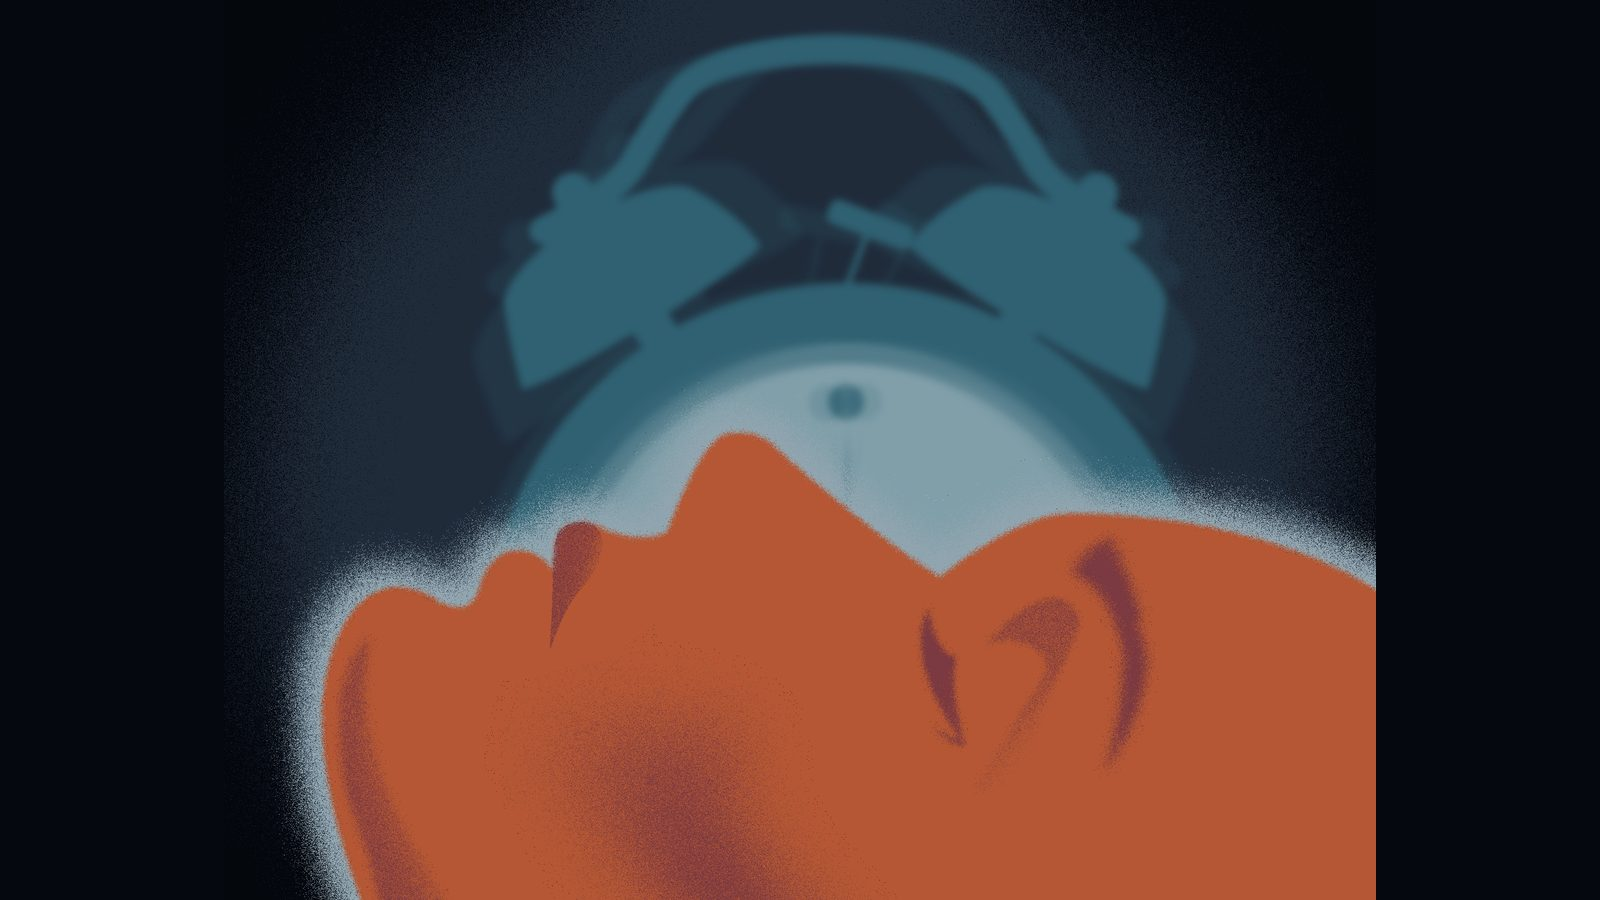
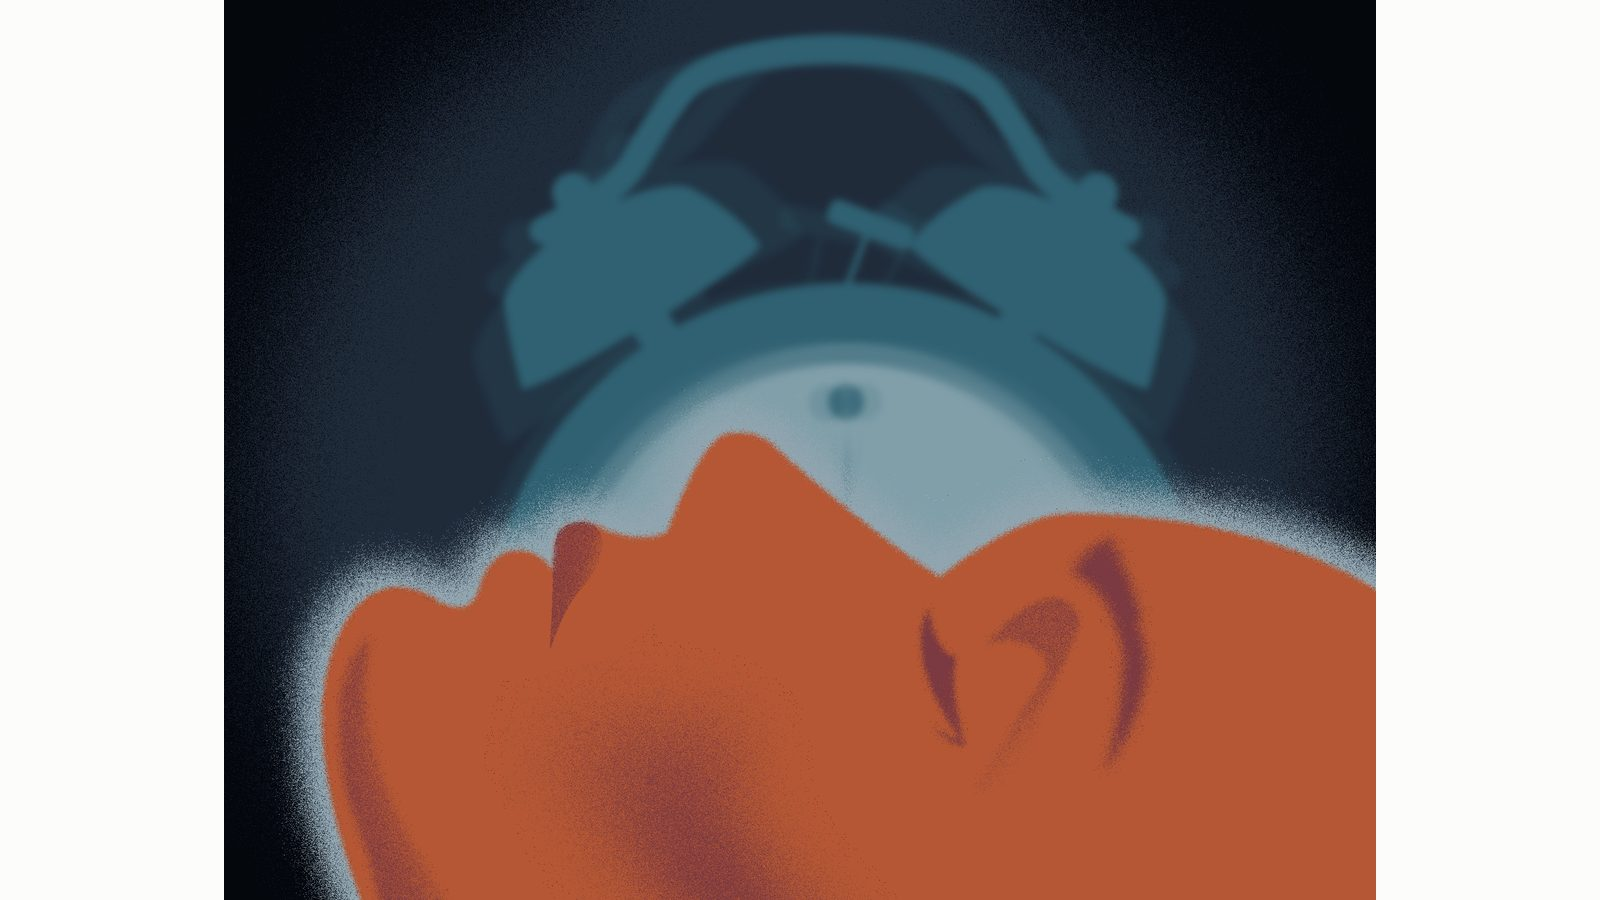
Illustrations on white edges (both slideshows); site buttons back to grey; keep portfolio drafts and portrait originals out of git

Changed region(s): [[0.8438, 0.0, 1.0, 1.0], [0.0, 0.0, 0.1562, 1.0]]

diff --git a/assets/images/slideshow-illustrations.html b/assets/images/slideshow-illustrations.html
@@ -200,7 +200,7 @@
   var root = document.querySelector("#slideshow-embed");
   if (!root) return;
   var $ = function (sel) { return root.querySelector(sel); };
-  var CONFIG = {"panelColor":"black","cover":null,"slides":[{"desktop":"illustrations/ill-01.jpg","mobile":null,"heading":"","caption":"","cropDesktop":{"scale":1,"x":0.5,"y":0.5},"cropMobile":{"scale":1,"x":0.5,"y":0.5}},{"desktop":"illustrations/ill-02.jpg","mobile":null,"heading":"","caption":"","cropDesktop":{"scale":1,"x":0.5,"y":0.5},"cropMobile":{"scale":1,"x":0.5,"y":0.5}},{"desktop":"illustrations/ill-03.jpg","mobile":null,"heading":"","caption":"","cropDesktop":{"scale":1,"x":0.5,"y":0.5},"cropMobile":{"scale":1,"x":0.5,"y":0.5}},{"desktop":"illustrations/ill-04.jpg","mobile":null,"heading":"","caption":"","cropDesktop":{"scale":1,"x":0.5,"y":0.5},"cropMobile":{"scale":1,"x":0.5,"y":0.5}},{"desktop":"illustrations/ill-05.jpg","mobile":null,"heading":"","caption":"","cropDesktop":{"scale":1,"x":0.5,"y":0.5},"cropMobile":{"scale":1,"x":0.5,"y":0.5}},{"desktop":"illustrations/ill-06.jpg","mobile":null,"heading":"","caption":"","cropDesktop":{"scale":1,"x":0.5,"y":0.5},"cropMobile":{"scale":1,"x":0.5,"y":0.5}},{"desktop":"illustrations/ill-07.jpg","mobile":null,"heading":"","caption":"","cropDesktop":{"scale":1,"x":0.5,"y":0.5},"cropMobile":{"scale":1,"x":0.5,"y":0.5}},{"desktop":"illustrations/ill-08.jpg","mobile":null,"heading":"","caption":"","cropDesktop":{"scale":1,"x":0.5,"y":0.5},"cropMobile":{"scale":1,"x":0.5,"y":0.5}},{"desktop":"illustrations/ill-09.jpg","mobile":null,"heading":"","caption":"","cropDesktop":{"scale":1,"x":0.5,"y":0.5},"cropMobile":{"scale":1,"x":0.5,"y":0.5}},{"desktop":"illustrations/ill-10.jpg","mobile":null,"heading":"","caption":"","cropDesktop":{"scale":1,"x":0.5,"y":0.5},"cropMobile":{"scale":1,"x":0.5,"y":0.5}},{"desktop":"illustrations/ill-11.jpg","mobile":null,"heading":"","caption":"","cropDesktop":{"scale":1,"x":0.5,"y":0.5},"cropMobile":{"scale":1,"x":0.5,"y":0.5}},{"desktop":"illustrations/ill-12.jpg","mobile":null,"heading":"","caption":"","cropDesktop":{"scale":1,"x":0.5,"y":0.5},"cropMobile":{"scale":1,"x":0.5,"y":0.5}},{"desktop":"illustrations/ill-13.jpg","mobile":null,"heading":"","caption":"","cropDesktop":{"scale":1,"x":0.5,"y":0.5},"cropMobile":{"scale":1,"x":0.5,"y":0.5}},{"desktop":"illustrations/ill-14.jpg","mobile":null,"heading":"","caption":"","cropDesktop":{"scale":1,"x":0.5,"y":0.5},"cropMobile":{"scale":1,"x":0.5,"y":0.5}},{"desktop":"illustrations/ill-15.jpg","mobile":null,"heading":"","caption":"","cropDesktop":{"scale":1,"x":0.5,"y":0.5},"cropMobile":{"scale":1,"x":0.5,"y":0.5}},{"desktop":"illustrations/ill-16.jpg","mobile":null,"heading":"","caption":"","cropDesktop":{"scale":1,"x":0.5,"y":0.5},"cropMobile":{"scale":1,"x":0.5,"y":0.5}},{"desktop":"illustrations/ill-17.jpg","mobile":null,"heading":"","caption":"","cropDesktop":{"scale":1,"x":0.5,"y":0.5},"cropMobile":{"scale":1,"x":0.5,"y":0.5}},{"desktop":"illustrations/ill-18.jpg","mobile":null,"heading":"","caption":"","cropDesktop":{"scale":1,"x":0.5,"y":0.5},"cropMobile":{"scale":1,"x":0.5,"y":0.5}},{"desktop":"illustrations/ill-19.jpg","mobile":null,"heading":"","caption":"","cropDesktop":{"scale":1,"x":0.5,"y":0.5},"cropMobile":{"scale":1,"x":0.5,"y":0.5}},{"desktop":"illustrations/ill-20.jpg","mobile":null,"heading":"","caption":"","cropDesktop":{"scale":1,"x":0.5,"y":0.5},"cropMobile":{"scale":1,"x":0.5,"y":0.5}},{"desktop":"illustrations/ill-21.jpg","mobile":null,"heading":"","caption":"","cropDesktop":{"scale":1,"x":0.5,"y":0.5},"cropMobile":{"scale":1,"x":0.5,"y":0.5}},{"desktop":"illustrations/ill-22.jpg","mobile":null,"heading":"","caption":"","cropDesktop":{"scale":1,"x":0.5,"y":0.5},"cropMobile":{"scale":1,"x":0.5,"y":0.5}},{"desktop":"illustrations/ill-23.jpg","mobile":null,"heading":"","caption":"","cropDesktop":{"scale":1,"x":0.5,"y":0.5},"cropMobile":{"scale":1,"x":0.5,"y":0.5}},{"desktop":"illustrations/ill-24.jpg","mobile":null,"heading":"","caption":"","cropDesktop":{"scale":1,"x":0.5,"y":0.5},"cropMobile":{"scale":1,"x":0.5,"y":0.5}},{"desktop":"illustrations/ill-25.jpg","mobile":null,"heading":"","caption":"","cropDesktop":{"scale":1,"x":0.5,"y":0.5},"cropMobile":{"scale":1,"x":0.5,"y":0.5}},{"desktop":"illustrations/ill-26.jpg","mobile":null,"heading":"","caption":"","cropDesktop":{"scale":1,"x":0.5,"y":0.5},"cropMobile":{"scale":1,"x":0.5,"y":0.5}},{"desktop":"illustrations/ill-27.jpg","mobile":null,"heading":"","caption":"","cropDesktop":{"scale":1,"x":0.5,"y":0.5},"cropMobile":{"scale":1,"x":0.5,"y":0.5}},{"desktop":"illustrations/ill-28.jpg","mobile":null,"heading":"","caption":"","cropDesktop":{"scale":1,"x":0.5,"y":0.5},"cropMobile":{"scale":1,"x":0.5,"y":0.5}},{"desktop":"illustrations/ill-29.jpg","mobile":null,"heading":"","caption":"","cropDesktop":{"scale":1,"x":0.5,"y":0.5},"cropMobile":{"scale":1,"x":0.5,"y":0.5}},{"desktop":"illustrations/ill-30.jpg","mobile":null,"heading":"","caption":"","cropDesktop":{"scale":1,"x":0.5,"y":0.5},"cropMobile":{"scale":1,"x":0.5,"y":0.5}},{"desktop":"illustrations/ill-31.jpg","mobile":null,"heading":"","caption":"","cropDesktop":{"scale":1,"x":0.5,"y":0.5},"cropMobile":{"scale":1,"x":0.5,"y":0.5}},{"desktop":"illustrations/ill-32.jpg","mobile":null,"heading":"","caption":"","cropDesktop":{"scale":1,"x":0.5,"y":0.5},"cropMobile":{"scale":1,"x":0.5,"y":0.5}},{"desktop":"illustrations/ill-33.jpg","mobile":null,"heading":"","caption":"","cropDesktop":{"scale":1,"x":0.5,"y":0.5},"cropMobile":{"scale":1,"x":0.5,"y":0.5}},{"desktop":"illustrations/ill-34.jpg","mobile":null,"heading":"","caption":"","cropDesktop":{"scale":1,"x":0.5,"y":0.5},"cropMobile":{"scale":1,"x":0.5,"y":0.5}},{"desktop":"illustrations/ill-35.jpg","mobile":null,"heading":"","caption":"","cropDesktop":{"scale":1,"x":0.5,"y":0.5},"cropMobile":{"scale":1,"x":0.5,"y":0.5}},{"desktop":"illustrations/ill-36.jpg","mobile":null,"heading":"","caption":"","cropDesktop":{"scale":1,"x":0.5,"y":0.5},"cropMobile":{"scale":1,"x":0.5,"y":0.5}},{"desktop":"illustrations/ill-37.jpg","mobile":null,"heading":"","caption":"","cropDesktop":{"scale":1,"x":0.5,"y":0.5},"cropMobile":{"scale":1,"x":0.5,"y":0.5}}]};
+  var CONFIG = {"panelColor":"black","cover":null,"slides":[{"desktop":"illustrations/ill-01.jpg?v=2","mobile":null,"heading":"","caption":"","cropDesktop":{"scale":1,"x":0.5,"y":0.5},"cropMobile":{"scale":1,"x":0.5,"y":0.5}},{"desktop":"illustrations/ill-02.jpg?v=2","mobile":null,"heading":"","caption":"","cropDesktop":{"scale":1,"x":0.5,"y":0.5},"cropMobile":{"scale":1,"x":0.5,"y":0.5}},{"desktop":"illustrations/ill-03.jpg?v=2","mobile":null,"heading":"","caption":"","cropDesktop":{"scale":1,"x":0.5,"y":0.5},"cropMobile":{"scale":1,"x":0.5,"y":0.5}},{"desktop":"illustrations/ill-04.jpg?v=2","mobile":null,"heading":"","caption":"","cropDesktop":{"scale":1,"x":0.5,"y":0.5},"cropMobile":{"scale":1,"x":0.5,"y":0.5}},{"desktop":"illustrations/ill-05.jpg?v=2","mobile":null,"heading":"","caption":"","cropDesktop":{"scale":1,"x":0.5,"y":0.5},"cropMobile":{"scale":1,"x":0.5,"y":0.5}},{"desktop":"illustrations/ill-06.jpg?v=2","mobile":null,"heading":"","caption":"","cropDesktop":{"scale":1,"x":0.5,"y":0.5},"cropMobile":{"scale":1,"x":0.5,"y":0.5}},{"desktop":"illustrations/ill-07.jpg?v=2","mobile":null,"heading":"","caption":"","cropDesktop":{"scale":1,"x":0.5,"y":0.5},"cropMobile":{"scale":1,"x":0.5,"y":0.5}},{"desktop":"illustrations/ill-08.jpg?v=2","mobile":null,"heading":"","caption":"","cropDesktop":{"scale":1,"x":0.5,"y":0.5},"cropMobile":{"scale":1,"x":0.5,"y":0.5}},{"desktop":"illustrations/ill-09.jpg?v=2","mobile":null,"heading":"","caption":"","cropDesktop":{"scale":1,"x":0.5,"y":0.5},"cropMobile":{"scale":1,"x":0.5,"y":0.5}},{"desktop":"illustrations/ill-10.jpg?v=2","mobile":null,"heading":"","caption":"","cropDesktop":{"scale":1,"x":0.5,"y":0.5},"cropMobile":{"scale":1,"x":0.5,"y":0.5}},{"desktop":"illustrations/ill-11.jpg?v=2","mobile":null,"heading":"","caption":"","cropDesktop":{"scale":1,"x":0.5,"y":0.5},"cropMobile":{"scale":1,"x":0.5,"y":0.5}},{"desktop":"illustrations/ill-12.jpg?v=2","mobile":null,"heading":"","caption":"","cropDesktop":{"scale":1,"x":0.5,"y":0.5},"cropMobile":{"scale":1,"x":0.5,"y":0.5}},{"desktop":"illustrations/ill-13.jpg?v=2","mobile":null,"heading":"","caption":"","cropDesktop":{"scale":1,"x":0.5,"y":0.5},"cropMobile":{"scale":1,"x":0.5,"y":0.5}},{"desktop":"illustrations/ill-14.jpg?v=2","mobile":null,"heading":"","caption":"","cropDesktop":{"scale":1,"x":0.5,"y":0.5},"cropMobile":{"scale":1,"x":0.5,"y":0.5}},{"desktop":"illustrations/ill-15.jpg?v=2","mobile":null,"heading":"","caption":"","cropDesktop":{"scale":1,"x":0.5,"y":0.5},"cropMobile":{"scale":1,"x":0.5,"y":0.5}},{"desktop":"illustrations/ill-16.jpg?v=2","mobile":null,"heading":"","caption":"","cropDesktop":{"scale":1,"x":0.5,"y":0.5},"cropMobile":{"scale":1,"x":0.5,"y":0.5}},{"desktop":"illustrations/ill-17.jpg?v=2","mobile":null,"heading":"","caption":"","cropDesktop":{"scale":1,"x":0.5,"y":0.5},"cropMobile":{"scale":1,"x":0.5,"y":0.5}},{"desktop":"illustrations/ill-18.jpg?v=2","mobile":null,"heading":"","caption":"","cropDesktop":{"scale":1,"x":0.5,"y":0.5},"cropMobile":{"scale":1,"x":0.5,"y":0.5}},{"desktop":"illustrations/ill-19.jpg?v=2","mobile":null,"heading":"","caption":"","cropDesktop":{"scale":1,"x":0.5,"y":0.5},"cropMobile":{"scale":1,"x":0.5,"y":0.5}},{"desktop":"illustrations/ill-20.jpg?v=2","mobile":null,"heading":"","caption":"","cropDesktop":{"scale":1,"x":0.5,"y":0.5},"cropMobile":{"scale":1,"x":0.5,"y":0.5}},{"desktop":"illustrations/ill-21.jpg?v=2","mobile":null,"heading":"","caption":"","cropDesktop":{"scale":1,"x":0.5,"y":0.5},"cropMobile":{"scale":1,"x":0.5,"y":0.5}},{"desktop":"illustrations/ill-22.jpg?v=2","mobile":null,"heading":"","caption":"","cropDesktop":{"scale":1,"x":0.5,"y":0.5},"cropMobile":{"scale":1,"x":0.5,"y":0.5}},{"desktop":"illustrations/ill-23.jpg?v=2","mobile":null,"heading":"","caption":"","cropDesktop":{"scale":1,"x":0.5,"y":0.5},"cropMobile":{"scale":1,"x":0.5,"y":0.5}},{"desktop":"illustrations/ill-24.jpg?v=2","mobile":null,"heading":"","caption":"","cropDesktop":{"scale":1,"x":0.5,"y":0.5},"cropMobile":{"scale":1,"x":0.5,"y":0.5}},{"desktop":"illustrations/ill-25.jpg?v=2","mobile":null,"heading":"","caption":"","cropDesktop":{"scale":1,"x":0.5,"y":0.5},"cropMobile":{"scale":1,"x":0.5,"y":0.5}},{"desktop":"illustrations/ill-26.jpg?v=2","mobile":null,"heading":"","caption":"","cropDesktop":{"scale":1,"x":0.5,"y":0.5},"cropMobile":{"scale":1,"x":0.5,"y":0.5}},{"desktop":"illustrations/ill-27.jpg?v=2","mobile":null,"heading":"","caption":"","cropDesktop":{"scale":1,"x":0.5,"y":0.5},"cropMobile":{"scale":1,"x":0.5,"y":0.5}},{"desktop":"illustrations/ill-28.jpg?v=2","mobile":null,"heading":"","caption":"","cropDesktop":{"scale":1,"x":0.5,"y":0.5},"cropMobile":{"scale":1,"x":0.5,"y":0.5}},{"desktop":"illustrations/ill-29.jpg?v=2","mobile":null,"heading":"","caption":"","cropDesktop":{"scale":1,"x":0.5,"y":0.5},"cropMobile":{"scale":1,"x":0.5,"y":0.5}},{"desktop":"illustrations/ill-30.jpg?v=2","mobile":null,"heading":"","caption":"","cropDesktop":{"scale":1,"x":0.5,"y":0.5},"cropMobile":{"scale":1,"x":0.5,"y":0.5}},{"desktop":"illustrations/ill-31.jpg?v=2","mobile":null,"heading":"","caption":"","cropDesktop":{"scale":1,"x":0.5,"y":0.5},"cropMobile":{"scale":1,"x":0.5,"y":0.5}},{"desktop":"illustrations/ill-32.jpg?v=2","mobile":null,"heading":"","caption":"","cropDesktop":{"scale":1,"x":0.5,"y":0.5},"cropMobile":{"scale":1,"x":0.5,"y":0.5}},{"desktop":"illustrations/ill-33.jpg?v=2","mobile":null,"heading":"","caption":"","cropDesktop":{"scale":1,"x":0.5,"y":0.5},"cropMobile":{"scale":1,"x":0.5,"y":0.5}},{"desktop":"illustrations/ill-34.jpg?v=2","mobile":null,"heading":"","caption":"","cropDesktop":{"scale":1,"x":0.5,"y":0.5},"cropMobile":{"scale":1,"x":0.5,"y":0.5}},{"desktop":"illustrations/ill-35.jpg?v=2","mobile":null,"heading":"","caption":"","cropDesktop":{"scale":1,"x":0.5,"y":0.5},"cropMobile":{"scale":1,"x":0.5,"y":0.5}},{"desktop":"illustrations/ill-36.jpg?v=2","mobile":null,"heading":"","caption":"","cropDesktop":{"scale":1,"x":0.5,"y":0.5},"cropMobile":{"scale":1,"x":0.5,"y":0.5}},{"desktop":"illustrations/ill-37.jpg?v=2","mobile":null,"heading":"","caption":"","cropDesktop":{"scale":1,"x":0.5,"y":0.5},"cropMobile":{"scale":1,"x":0.5,"y":0.5}}]};
   var IS_PREVIEW = false;
   var frame        = $(".ss-frame");
   var stage        = $(".ss-stage");

diff --git a/index.html b/index.html
@@ -7,7 +7,7 @@
 <title>
    Paul Slater | Finding My Story
   </title>
-<link href="assets/style.css?v=20261013c" rel="stylesheet"/>
+<link href="assets/style.css?v=20261013d" rel="stylesheet"/>
 <!-- Draft chapters (class="draft-chapter") are hidden on the live site until
      they're ready. They show when viewing locally, or live with ?draft on the
      end of the address (e.g. slatesdesign.com/?draft). -->
@@ -390,7 +390,7 @@ I’m still just as curious today. New technology doesn’t feel like a threat, 
 <p class="work-context">Illustration was my first love, and editorial work taught me to do it at speed. Whether it’s a single news story or a running series, the brief is usually the same: a tight deadline and a story that needs to stand out. That means looking past the obvious to find the one idea that stops readers in their tracks and sells the story, then bringing it to life in hours rather than weeks.</p>
 </div>
 <div class="story-wide"><div class="story-slideshow">
-<iframe loading="lazy" scrolling="no" src="assets/images/slideshow-illustrations.html?v=1" title="Editorial illustration: a slideshow of 37 illustrations">
+<iframe loading="lazy" scrolling="no" src="assets/images/slideshow-illustrations.html?v=2" title="Editorial illustration: a slideshow of 37 illustrations">
 </iframe>
 </div></div>
 </div>
@@ -602,9 +602,9 @@ Whether I’m working with oils, designing an interactive experience or building
 </section>
 </section>
 </div>
-<script src="assets/script.js?v=20261013c">
+<script src="assets/script.js?v=20261013d">
 </script>
-<script src="assets/three.js?v=20261013c" type="module">
+<script src="assets/three.js?v=20261013d" type="module">
 </script>
 </body>
 </html>

diff --git a/cv.html b/cv.html
@@ -4,7 +4,7 @@
     <meta charset="UTF-8">
     <meta name="viewport" content="width=device-width, initial-scale=1.0">
     <title>Paul Slater | CV</title>
-    <link rel="stylesheet" href="assets/style.css?v=20261013c">
+    <link rel="stylesheet" href="assets/style.css?v=20261013d">
     <link rel="icon" href="favicon.ico" sizes="any">
     <link rel="icon" type="image/svg+xml" href="assets/icons/favicon.svg">
     <link rel="apple-touch-icon" href="assets/icons/apple-touch-icon.png">
@@ -420,7 +420,7 @@ It wasn't an easy decision, but careers are shaped as much by the choices you do
 <!-- Shared site script: handles the accordion and the header typewriter.
      It types #thoughts on the homepage and #jobTitles here — no page-specific
      script needed. -->
-<script src="assets/script.js?v=20261013c"></script>
+<script src="assets/script.js?v=20261013d"></script>
 
 </body>
 </html>

diff --git a/contact.html b/contact.html
@@ -9,7 +9,7 @@
 
     <title>Paul Slater | Contact</title>
 
-    <link rel="stylesheet" href="assets/style.css?v=20261013c">
+    <link rel="stylesheet" href="assets/style.css?v=20261013d">
     <link rel="icon" href="favicon.ico" sizes="any">
     <link rel="icon" type="image/svg+xml" href="assets/icons/favicon.svg">
     <link rel="apple-touch-icon" href="assets/icons/apple-touch-icon.png">
@@ -161,7 +161,7 @@
 
 </div>
 
-<script src="assets/script.js?v=20261013c"></script>
+<script src="assets/script.js?v=20261013d"></script>
 
 </body>
 </html>

diff --git a/assets/style.css b/assets/style.css
@@ -1736,10 +1736,6 @@ a.work-media:hover img{
 .work-link:hover{
     color:var(--accent);
 }
-.project-button,
-.story-showcase-open{
-    background:var(--accent);
-}
 .thought-dot,
 .hero-ticker .thought-dot,
 .hero-ticker .cursor{
